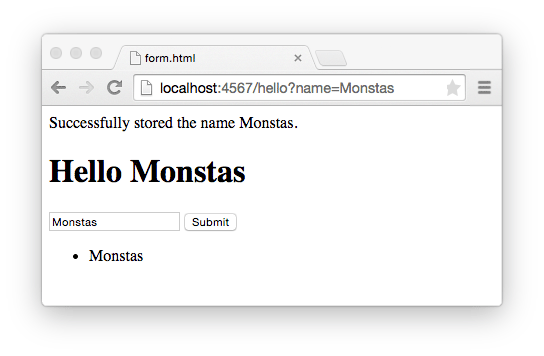
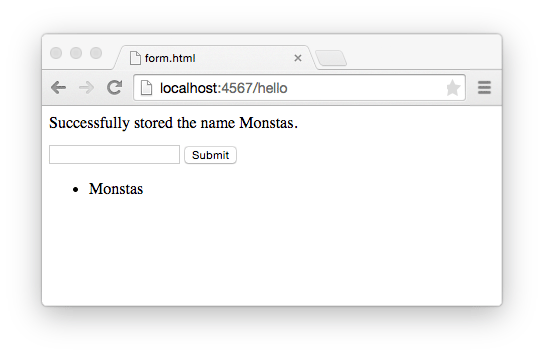
split chapter: sessions

diff --git a/source/assets/stylesheets/_style.scss b/source/assets/stylesheets/_style.scss
@@ -90,18 +90,16 @@ code:before, code:after {
 table {
   margin-top: 1em;
   width: 100%;
-
-  tr {
-    border-top: 1px solid #ddd;
-    border-bottom: 1px solid #ddd;
-  }
+  border-collapse: collapse;
 
   th {
+    border: 1px solid #ddd;
     text-align: left;
   }
 
   td, th {
-    padding: 0.5em 1em 0.5em 0;
+    border: 1px solid #ddd;
+    padding: 0.5em 1em 0.5em 1em;
   }
 }
 

diff --git a/source/12-sessions.md b/source/12-sessions.md
@@ -29,146 +29,6 @@ Basically.
 
 However, of course there are ways to identify your users. We all know that we
 can sign in to a web application, and it would recognize who we are. Right?
+
 Often web applications use cookies for this.
-
-A cookie is a little piece of information that a web application can send along
-with a response, and that will be stored by the browser. From then on, when the
-browser makes another request to the same application it will include the cookie
-to the request, sending it back to the application.
-
-For example, an HTTP response that sets a cookie for a user's prefered visual
-theme could look like this:
-
-```
-HTTP/1.0 200 OK
-Content-type: text/html
-Set-Cookie: theme=light
-```
-
-From now on, the browser would then include the cookie to subsequent requests:
-
-```
-GET /blog.html HTTP/1.1
-Host: rubymonstas.org
-Cookie: theme=light
-```
-
-This way the application could apply the "light" theme to the blog, because the
-user has selected it in some previous request: Cookies are a way to persist
-(keep) state (data) across multiple requests.
-
-Building on top of cookies, even though HTTP itself does not have a concept of a
-"session" (or conversation), Sinatra (just as basically any web application
-tool or framework) supports sessions. A session is a way for a web application
-to set a cookie that persists arbitrary data across multiple requests.
-
-Let's have a look how this works.
-
-Say we'd like to pass a message from our `post` route to the next request, saying
-"Successfully stored the name [name]". After successfully storing the name to
-the file, we'd like to pass a message to the `GET` request that the browser is
-going to be redirected to.
-
-We'd only want to display this message once right after the redirection from
-the `post` route: when we'd reload the page it should be gone. This is called
-transient state, and a session is a great place to keep it.
-
-First, we need to enable the `:sessions` feature in Sinatra. You can do that
-by adding this line above of your routes:
-
-```ruby
-enable :sessions
-```
-
-Now, we want to store the message in our `post` route:
-
-```ruby
-post "/hello" do
-  name = params[:name]
-  store_name("names.txt", name)
-  session[:message] = "Successfully stored the name #{name}."
-  redirect "/hello"
-end
-```
-
-Ok, cool.
-
-This will add a `Set-Cookie` header to the reponse which has a long, messy looking, encrypted
-string as a value.
-
-In my browser it looks like this:
-
-```
-Set-Cookie: rack.session=BAh7CUkiD3Nlc3Npb25faWQGOgZFVEkiRWI4OTdhMDJlNDBkMDFlNjcxNWUw%0AZGI1ZWU5MzQ0YTQyMjAzYjFiZTE2YzYxNzgwMWQxYjI3NzhiOWNhYTQ4YzUG%0AOwBGSSIJY3NyZgY7AEZJIiU2ZjdjN2Y0ZmM0MTdmMGJkNjBkNmY5MmQ1NDEx%0ANGQ4ZgY7AEZJIg10cmFja2luZwY7AEZ7B0kiFEhUVFBfVVNFUl9BR0VOVAY7%0AAFRJIi03NGNlNDIxYTczNjMwZDY3MWViNTlkYzIzN2YyN2M5NGU3ZWU4NTRm%0ABjsARkkiGUhUVFBfQUNDRVBUX0xBTkdVQUdFBjsAVEkiLTA3NjBhNDRjMzU0%0AODIxMzJjZjIyNDQyYTBkODhjMDhiYjg1NTYyNTAGOwBGSSIIZm9vBjsARkki%0ACGJhcgY7AFQ%3D%0A; path=/; HttpOnly
-```
-
-Wow. Ok, the name of the cookie gives us a hint that this is a session, and it
-is managed by Rack, which is what Sinatra uses under the hood to persist the
-session.
-
-Luckily we do not need to understand how exactly it does this. All we need to
-know is that we can now use this data in the next request (the `GET` request)
-like so:
-
-```ruby
-get "/hello" do
-  @message = session.delete(:message)
-  @names = read_names
-  @name = params["name"]
-  erb :hello
-end
-```
-
-I.e. we delete the key `:message` from our session (which is something very
-similar to a Ruby hash).  Deleting it will return the value that was stored on
-this key, and we assign it to the instance variable `@message`, which makes it
-available to our template.
-
-That means we can now use the message in our view like so:
-
-```erb
-<% if @message %>
-  <p><%= @message %></p>
-<% end %>
-```
-
-Let's try it out. Restart your application, and go to <a href="http://localhost:4567">http://localhost:4567</a>.
-If you enter a name, and click submit you should then see something like this:
-
-<img src="/assets/images/12-sessions_1.png">
-
-When you reload the page the message should be gone.
-
-How does this work?
-
-In our `post` route we store the message to the session hash. This has is
-something that Sinatra provides to us as developers. When we enable this
-feature then Sinatra will, after every request, store this hash to a cookie
-with the name `rack.session`, in the encrypted form that you saw above.
-
-We say the hash is being <a href="http://en.wikipedia.org/wiki/Serialization">serialized</a>,
-which is a fancy way of saying that it is turned into some kind of format that
-can be stored in text form. Sinatra (actually, Rack, under the hood) then also
-encrypts and signs this data, so it is safe to send it over the internet (in
-case we keep any sensitive data in it).
-
-Ok, so the `post` route includes the `Set-Cookie` header with this session
-cookie into its response, and sends it to the browser. The browser will, from
-now on, pass this cookie back the our application as part of every subsequent
-request.
-
-When our browser is now redirected to `GET` the same URL again, it passes the
-cookie, and Sinatra will, because we have the `:sessions` feature enabled,
-*deserialize* (i.e. decrypt and read) the session data, and put it into the
-hash that is returned by the method `session`, so we can work with it.
-
-In our `get` route we now simply always delete the key `:message` from the
-session hash. Should anything be in there it will be assigned to the `@message`
-instance variable, and the view will display it. If nothing's stored on the
-session key, for example when we reload the page, then deleting the key will
-simply return nil, and nothing will be displayed in the view.
-
-Does that make sense?
-
-Awesome :)
 

diff --git a/source/12-sessions/02-sinatra_sessions.md b/source/12-sessions/02-sinatra_sessions.md
@@ -1,0 +1,118 @@
+# Sessions in Sinatra
+
+Building on top of cookies, even though HTTP itself does not have a concept of a
+"session" (or conversation), Sinatra (just as basically any web application
+tool or framework) supports sessions.
+
+A session is a way for a web application to set a cookie that persists
+arbitrary data across multiple requests.
+
+Let's have a look how this works.
+
+Say we'd like to pass a message from our `post` route to the next request, saying
+*"Successfully stored the name [name]"*. I.e. after storing the name to the
+file, we'd like to pass a message to the `GET` request that the browser is
+going to be redirected to.
+
+We'd only want to display this message once right after the redirection from
+the `post` route: when we'd reload the page it should be gone. This is called
+transient state, and a session is a great place to keep it.
+
+First, we need to enable the `:sessions` feature in Sinatra. You can do that
+by adding this line above of your routes:
+
+```ruby
+enable :sessions
+```
+
+Now, we want to store the message in our `post` route:
+
+```ruby
+post "/hello" do
+  name = params[:name]
+  store_name("names.txt", name)
+  session[:message] = "Successfully stored the name #{name}."
+  redirect "/hello"
+end
+```
+
+Ok, cool.
+
+This will add a `Set-Cookie` header to the reponse which has a long, messy looking, encrypted
+string as a value.
+
+In my browser it looks like this:
+
+```
+Set-Cookie: rack.session=BAh7CUkiD3Nlc3Npb25faWQGOgZFVEkiRWI4OTdhMDJlNDBkMDFlNjcxNWUw%0AZGI1ZWU5MzQ0YTQyMjAzYjFiZTE2YzYxNzgwMWQxYjI3NzhiOWNhYTQ4YzUG%0AOwBGSSIJY3NyZgY7AEZJIiU2ZjdjN2Y0ZmM0MTdmMGJkNjBkNmY5MmQ1NDEx%0ANGQ4ZgY7AEZJIg10cmFja2luZwY7AEZ7B0kiFEhUVFBfVVNFUl9BR0VOVAY7%0AAFRJIi03NGNlNDIxYTczNjMwZDY3MWViNTlkYzIzN2YyN2M5NGU3ZWU4NTRm%0ABjsARkkiGUhUVFBfQUNDRVBUX0xBTkdVQUdFBjsAVEkiLTA3NjBhNDRjMzU0%0AODIxMzJjZjIyNDQyYTBkODhjMDhiYjg1NTYyNTAGOwBGSSIIZm9vBjsARkki%0ACGJhcgY7AFQ%3D%0A; path=/; HttpOnly
+```
+
+Wow. Ok, the name of the cookie gives us a hint that this is a session, and it
+is managed by Rack, which is what Sinatra uses under the hood to persist the
+session.
+
+Luckily we do not need to understand how exactly it does this. All we need to
+know is that we can now use this data in the next request (the `GET` request)
+like so:
+
+```ruby
+get "/hello" do
+  @message = session.delete(:message)
+  @names = read_names
+  erb :hello
+end
+```
+
+I.e. we delete the key `:message` from our session (which is something very
+similar to a Ruby hash).  Deleting it will return the value that was stored on
+this key, and we assign it to the instance variable `@message`, which makes it
+available to our template.
+
+That means we can now use the message in our view like so:
+
+```erb
+<% if @message %>
+  <p><%= @message %></p>
+<% end %>
+```
+
+Let's try it out. Restart your application, and go to <a href="http://localhost:4567">http://localhost:4567</a>.
+If you enter a name, and click submit you should then see something like this:
+
+<img src="/assets/images/12-sessions_1.png">
+
+When you reload the page the message should be gone.
+
+How does this work?
+
+In our `post` route we store the message to the session hash. This has is
+something that Sinatra provides to us as developers. When we enable this
+feature then Sinatra will, after every request, store this hash to a cookie
+with the name `rack.session`, in the encrypted form that you saw above.
+
+We say the hash is being <a href="http://en.wikipedia.org/wiki/Serialization">serialized</a>,
+which is a fancy way of saying that it is turned into some kind of format that
+can be stored in text form. Sinatra (actually, Rack, under the hood) then also
+encrypts and signs this data, so it is safe to send it over the internet (in
+case we keep any sensitive data in it).
+
+Ok, so the `post` route includes the `Set-Cookie` header with this session
+cookie into its response, and sends it to the browser. The browser will, from
+now on, pass this cookie back the our application as part of every subsequent
+request.
+
+When our browser is now redirected to `GET` the same URL again, it passes the
+cookie, and Sinatra will, because we have the `:sessions` feature enabled,
+*deserialize* (i.e. decrypt and read) the session data, and put it into the
+hash that is returned by the method `session`, so we can work with it.
+
+In our `get` route we now simply always delete the key `:message` from the
+session hash. Should anything be in there it will be assigned to the `@message`
+instance variable, and the view will display it. If nothing's stored on the
+session key, for example when we reload the page, then deleting the key will
+simply return nil, and nothing will be displayed in the view.
+
+Does that make sense?
+
+Awesome :)
+

diff --git a/source/12-sessions/01-cookies.md b/source/12-sessions/01-cookies.md
@@ -1,0 +1,28 @@
+# Cookies
+
+A cookie is a little piece of information that a web application can send along
+with a response, and that will be stored by the browser. From then on, when the
+browser makes another request to the same application it will include the cookie
+to the request, sending it back to the application.
+
+For example, an HTTP response that sets a cookie for a user's prefered visual
+theme could look like this:
+
+```
+HTTP/1.0 200 OK
+Content-type: text/html
+Set-Cookie: theme=light
+```
+
+From now on, the browser would then include the cookie to subsequent requests:
+
+```
+GET /blog.html HTTP/1.1
+Host: rubymonstas.org
+Cookie: theme=light
+```
+
+This way the application could apply the "light" theme to the blog, because the
+user has selected it in some previous request: Cookies are a way to persist
+(keep) state (data) across multiple requests.
+

diff --git a/source/14-resources.md b/source/14-resources.md
@@ -1,9 +1,12 @@
 # Resources
 
-In HTTP a "resource" is something that is identified by a URL. In Rails it is
-something slightly different: a collection of 7 routes that belong together in
-the sense that they allow listing, viewing, and managing a collection of
-things.
+In HTTP a "resource" is something that is identified by a URL.
+
+In Rails it is something slightly different: In Rails a resource a collection
+of 7 routes that belong together in the sense that they allow listing, viewing,
+and managing a collection of things. It is, essentially, a convention of
+grouping routes, which has been encoded in Rails, but also is being used in
+other applications, and generally a great practice.
 
 Let's have a look at an example.
 

diff --git a/source/13-validations.md b/source/13-validations.md
@@ -162,8 +162,8 @@ We can fix this by changing our view like so:
 
 Awesome.
 
-With this completed you have now walked through an important pattern, which
-also is used in Rails applications by default:
+With this completed you have now walked through an important pattern for web
+applications, which also is used in Rails applications by default:
 
 * There is an HTML form which is being retrieved via a `GET` request.
 * This form posts to another route, which validates the submitted data.
